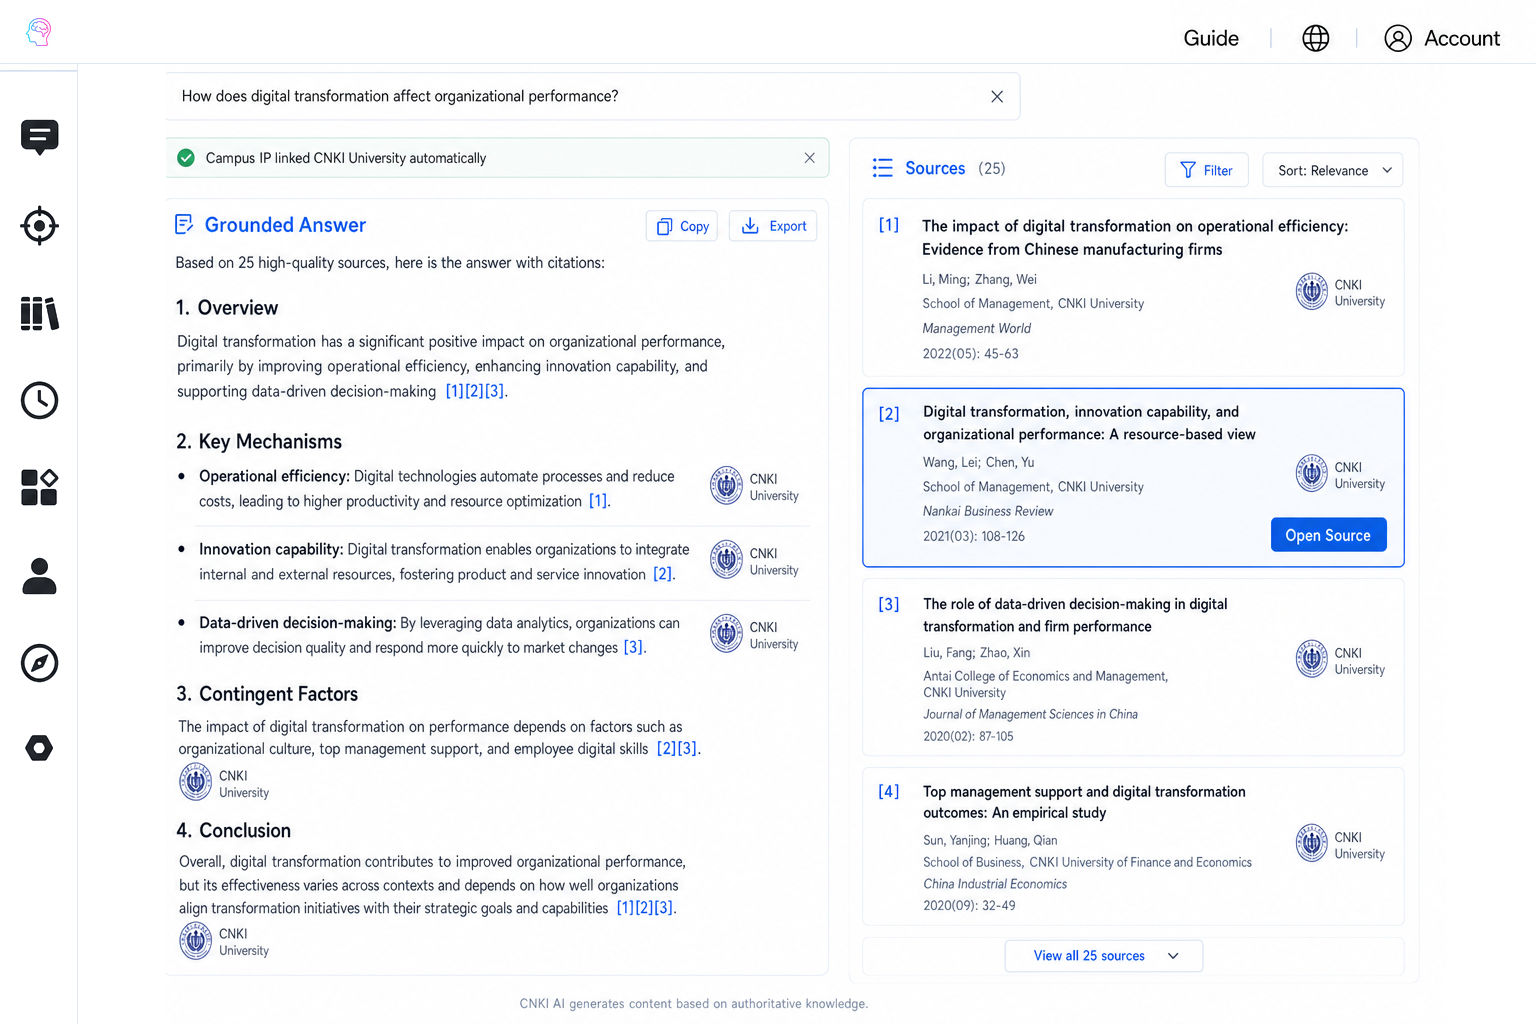
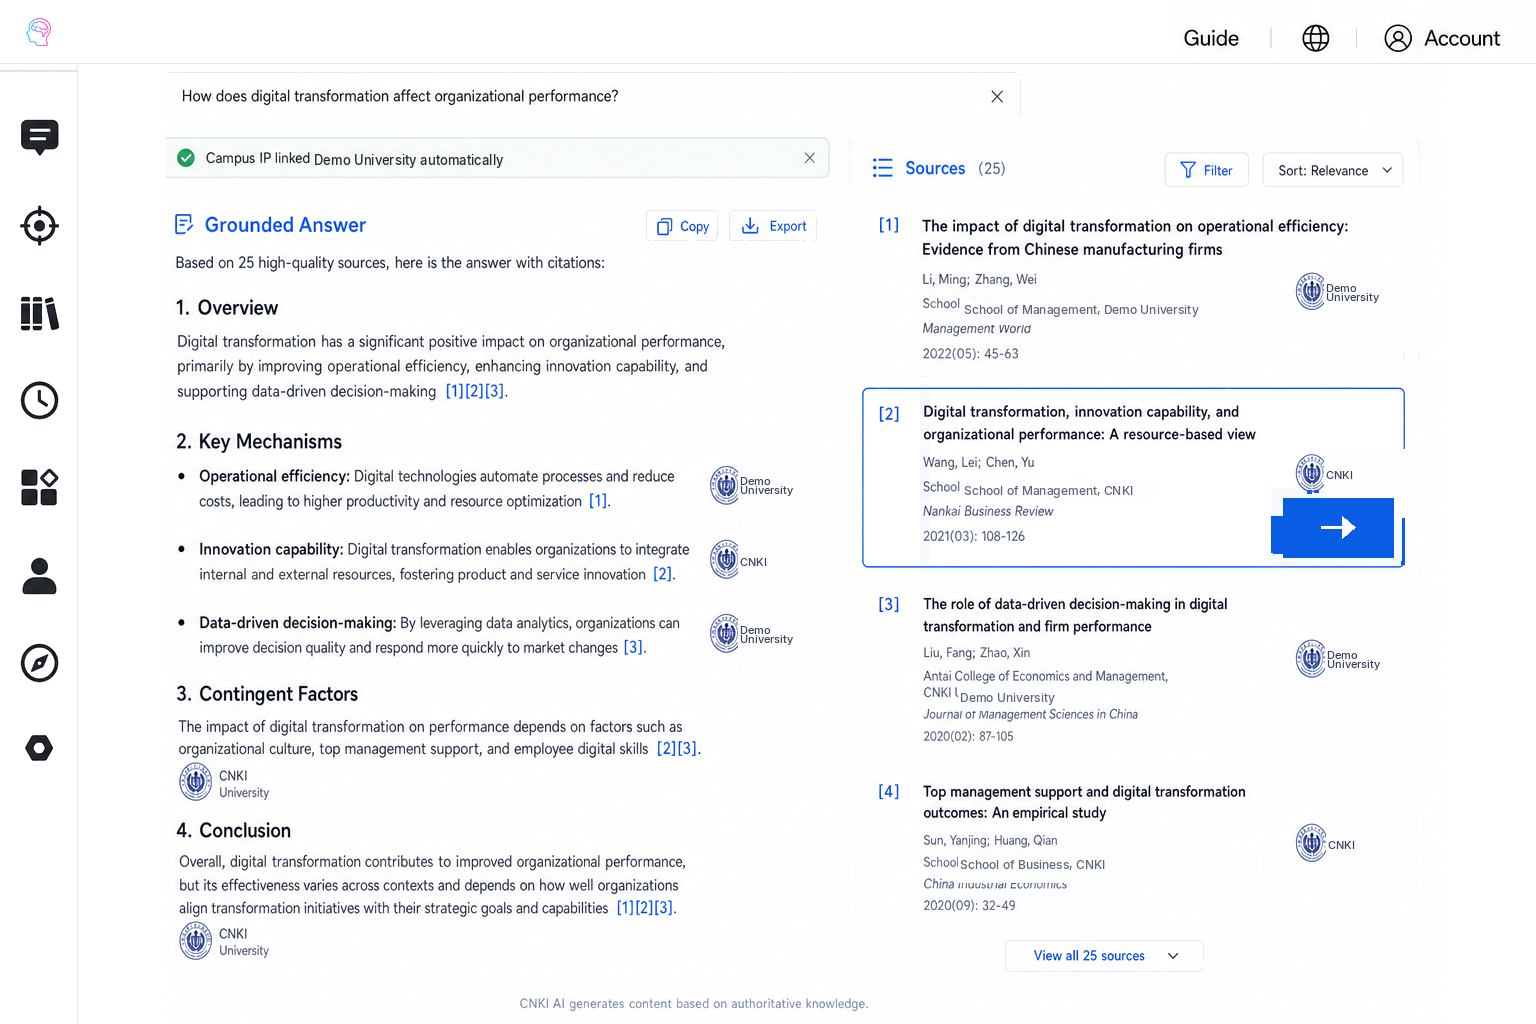
Update req3 dual-column trace: Demo University mix and arrow CTA
Rename campus banner to Demo University, keep answer text clear of blue wash,
mix citation badges/affiliations between Demo University and CNKI, and replace
the Open Source button with a right arrow.

diff --git a/prototypes/pages/req3-dual-column-trace.html b/prototypes/pages/req3-dual-column-trace.html
@@ -17,35 +17,35 @@
         <div class="muted" style="font-size:12px;margin-bottom:4px;">Question</div>
         <div style="font-weight:600;">How does digital transformation affect organizational performance?</div>
       </div>
-      <div class="chip">CNKI University sources</div>
+      <div class="chip">Demo University + CNKI sources</div>
     </div>
 
     <div class="split">
       <section class="panel card answer">
         <h2 class="h2">Grounded Answer</h2>
         <p><strong>1. Current status.</strong> Enterprises adopt cloud, data platforms, and AI to improve process efficiency
-          <span class="cite"><span class="cite-num">[1]</span><span class="school-badge"><span class="mark">C</span>CNKI University</span></span>.</p>
+          <span class="cite"><span class="cite-num">[1]</span><span class="school-badge"><span class="mark">D</span>Demo University</span></span>.</p>
         <p><strong>2. Key challenges.</strong> Gaps remain in infrastructure, talent, and data security
-          <span class="cite" style="background:#e8f1ff;border-radius:6px;padding:2px 4px;"><span class="cite-num">[2]</span><span class="school-badge"><span class="mark">C</span>CNKI University</span></span>.</p>
+          <span class="cite" style="background:#e8f1ff;border-radius:6px;padding:2px 4px;"><span class="cite-num">[2]</span><span class="school-badge"><span class="mark">C</span>CNKI</span></span>.</p>
         <p><strong>3. Strategies.</strong> Top-level design and investment in core systems improve outcomes
-          <span class="cite"><span class="cite-num">[3]</span><span class="school-badge"><span class="mark">C</span>CNKI University</span></span>.</p>
-        <p class="muted" style="font-size:12px;margin-top:18px;">Generated from CNKI University campus sources. Verify critical claims.</p>
+          <span class="cite"><span class="cite-num">[3]</span><span class="school-badge"><span class="mark">D</span>Demo University</span></span>.</p>
+        <p class="muted" style="font-size:12px;margin-top:18px;">Generated from Demo University campus sources and CNKI. Verify critical claims.</p>
       </section>
 
       <aside class="panel card">
         <h2 class="h2">Sources</h2>
         <div class="source-card">
           <div><span class="num">[1]</span><span class="title">Digital Transformation Paths in Chinese Enterprises</span></div>
-          <div class="meta">Li Ming; Zhao Wei · School of Management, CNKI University · 2023</div>
+          <div class="meta">Li Ming; Zhao Wei · School of Management, Demo University · 2023</div>
         </div>
         <div class="source-card active">
           <div><span class="num">[2]</span><span class="title">Key Challenges in Enterprise Digital Transformation</span></div>
-          <div class="meta">Wang Chen · School of Business, CNKI University · 2022</div>
-          <button class="btn" style="margin-top:10px;width:100%;">Open Source</button>
+          <div class="meta">Wang Chen · School of Business, CNKI · 2022</div>
+          <button class="btn" style="margin-top:10px;width:100%;" aria-label="Open source">→</button>
         </div>
         <div class="source-card">
           <div><span class="num">[3]</span><span class="title">Countermeasures under the New Development Pattern</span></div>
-          <div class="meta">Zhang Yu; Liu Fang · School of Management, CNKI University · 2024</div>
+          <div class="meta">Zhang Yu; Liu Fang · School of Management, Demo University · 2024</div>
         </div>
       </aside>
     </div>

diff --git a/prototypes/screens/req3-dual-column-trace.html b/prototypes/screens/req3-dual-column-trace.html
@@ -79,37 +79,37 @@
       <h3>1. Current Status</h3>
       <p>
         Enterprises are accelerating digital transformation with cloud computing, big data, and AI.
-        <span class="cite"><b>[1]</b><span class="badge"><i></i>CNKI University</span></span>
+        <span class="cite"><b>[1]</b><span class="badge"><i></i>Demo University</span></span>
       </p>
       <h3>2. Challenges</h3>
       <p>
         Gaps remain in infrastructure, talent, and data security for sustained transformation.
-        <span class="cite active"><b>[2]</b><span class="badge"><i></i>CNKI University</span></span>
+        <span class="cite active"><b>[2]</b><span class="badge"><i></i>CNKI</span></span>
       </p>
       <h3>3. Strategies</h3>
       <p>
         Institutions should prioritize top-level design and investment in core technologies.
-        <span class="cite"><b>[3]</b><span class="badge"><i></i>CNKI University</span></span>
+        <span class="cite"><b>[3]</b><span class="badge"><i></i>Demo University</span></span>
       </p>
-      <p class="disclaimer">The answer is generated by AI based on the professional knowledge base on CNKI. Please verify important information independently.</p>
+      <p class="disclaimer">The answer is generated by AI based on Demo University campus sources and CNKI. Please verify important information independently.</p>
     </section>
     <section class="card col">
       <h2>Sources</h2>
       <article class="source">
         <div class="n">[1]</div>
         <div class="t">Research on the Current Status and Promotion Path of Digital Transformation in Chinese Enterprises</div>
-        <div class="m">Li Ming; Zhao Wei · School of Economics and Management, CNKI University · 2023-05-15</div>
+        <div class="m">Li Ming; Zhao Wei · School of Economics and Management, Demo University · 2023-05-15</div>
       </article>
       <article class="source active">
         <div class="n">[2]</div>
         <div class="t">Analysis of Key Challenges in Enterprise Digital Transformation</div>
-        <div class="m">Wang Chen · School of Business, CNKI University · 2022-11-20</div>
-        <button class="btn">Open Source</button>
+        <div class="m">Wang Chen · School of Business, CNKI · 2022-11-20</div>
+        <button class="btn" aria-label="Open source">→</button>
       </article>
       <article class="source">
         <div class="n">[3]</div>
         <div class="t">Path and Countermeasures for Enterprise Digital Transformation under the New Development Pattern</div>
-        <div class="m">Zhang Yu; Liu Fang · School of Management, CNKI University · 2024-01-08</div>
+        <div class="m">Zhang Yu; Liu Fang · School of Management, Demo University · 2024-01-08</div>
       </article>
     </section>
   </div>
